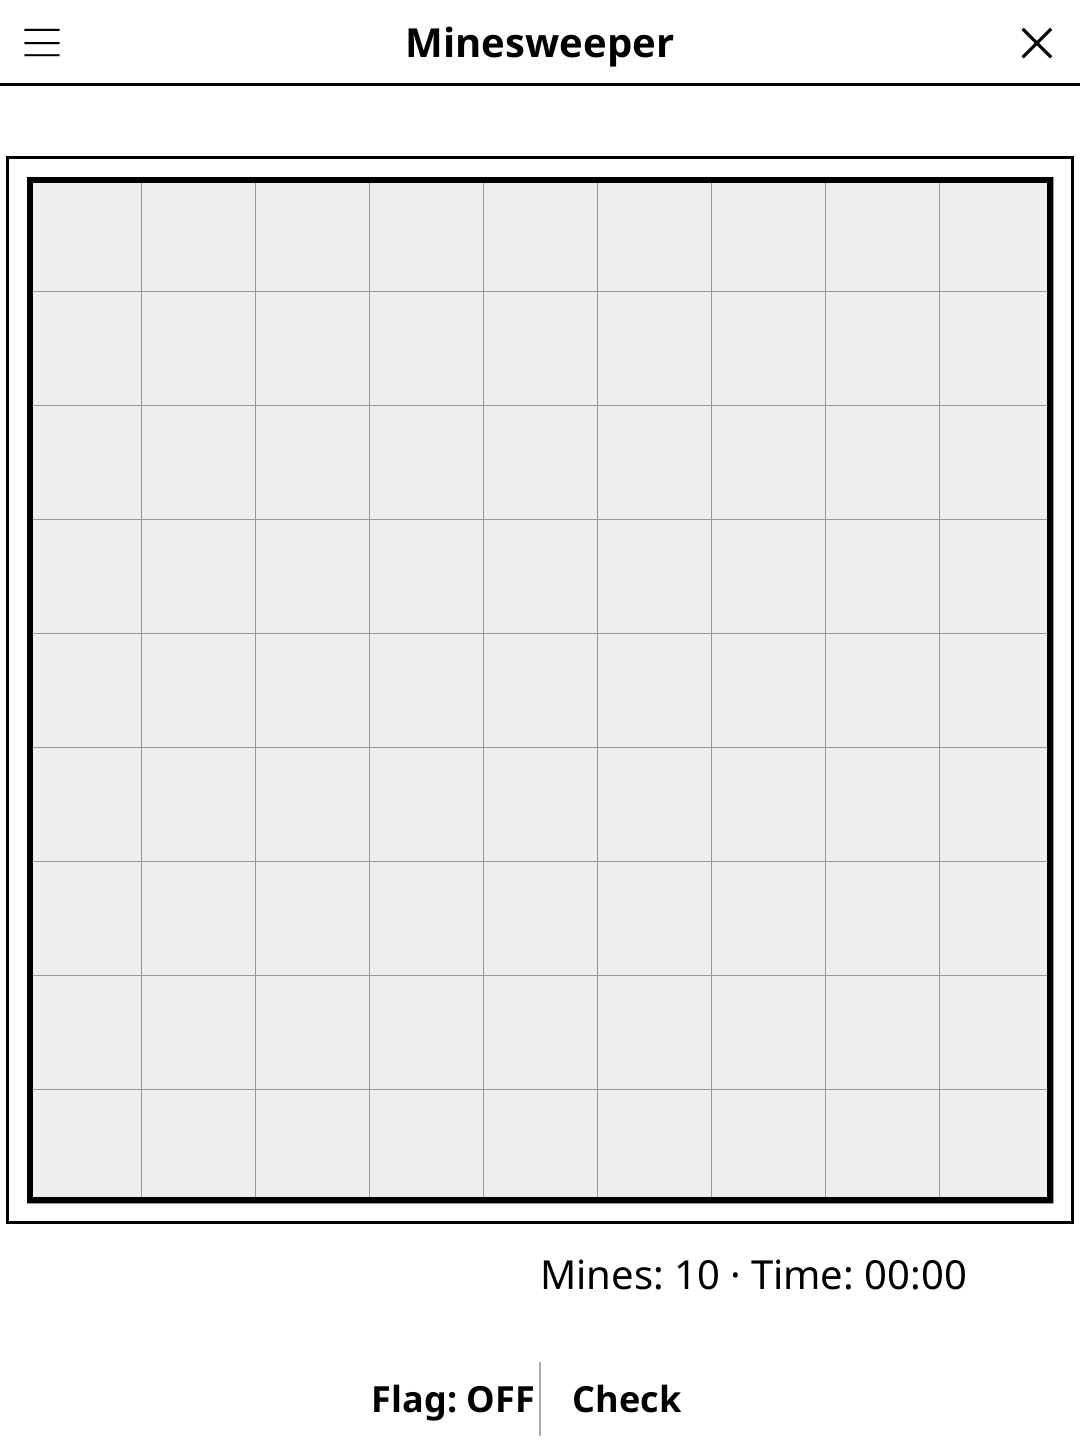
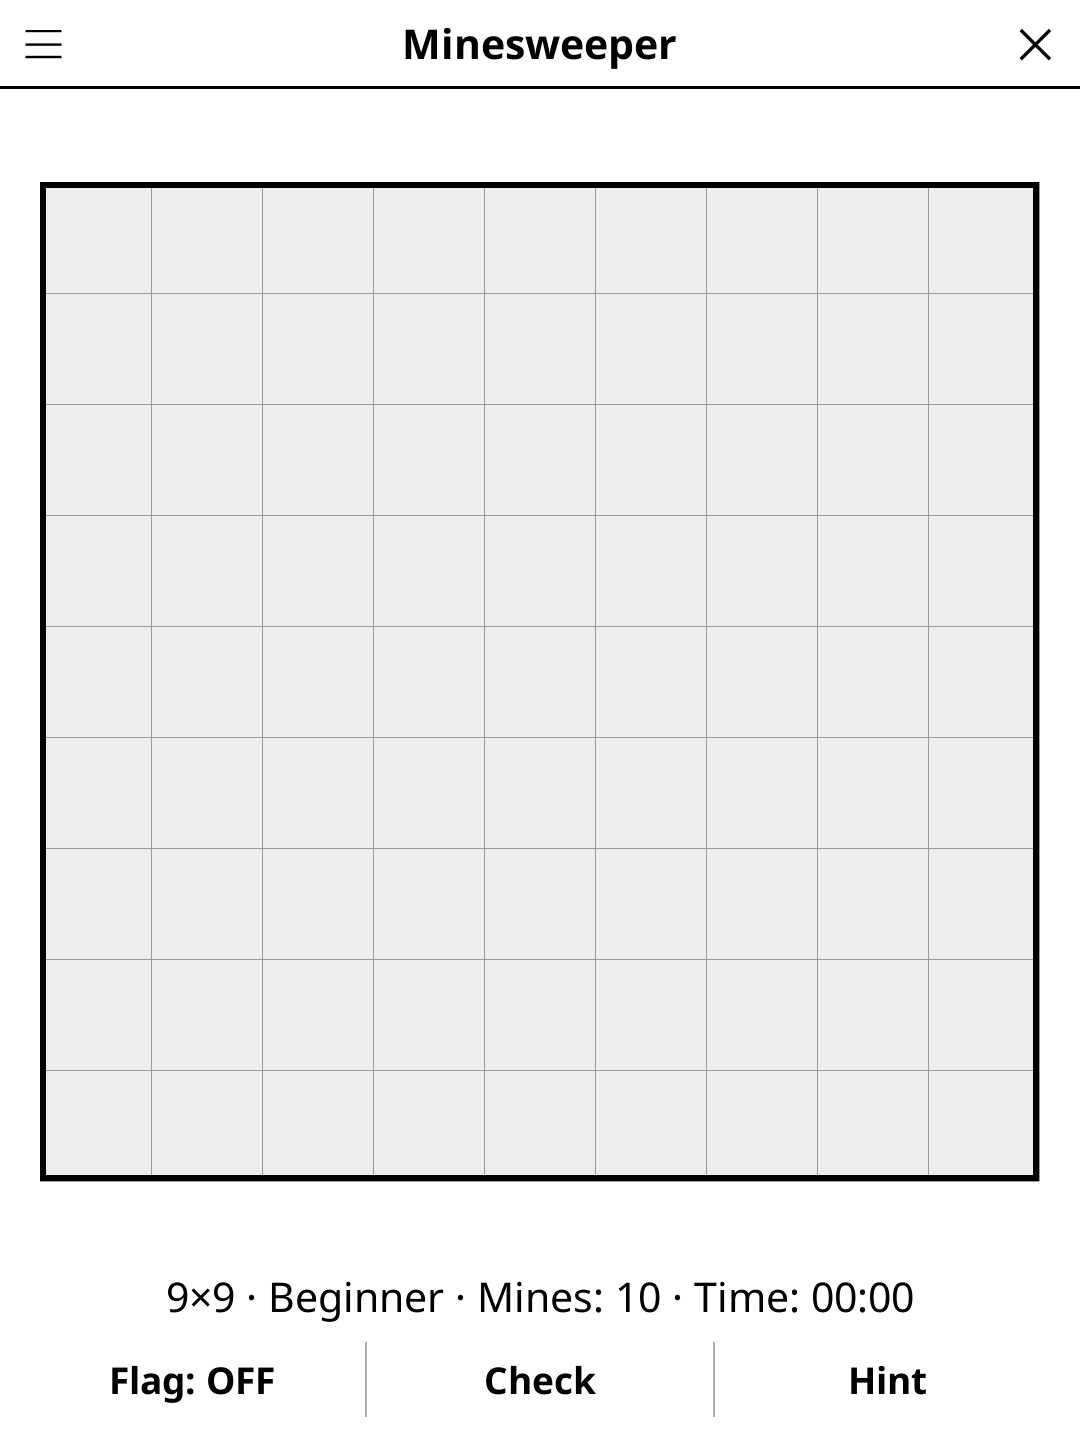
release: 1.3.0 -- redesigned screen, harmonised menu, New game at round end
Screen redesign (full-width action bar, unified pad, status line, larger
board), harmonised title-bar menu, and a "New game" button once the round
is over. See CHANGELOG.md.

diff --git a/CHANGELOG.md b/CHANGELOG.md
@@ -2,6 +2,34 @@
 
 All notable changes to this project will be documented in this file.
 
+## [1.3.0] - 2026-10-30
+
+### Added
+- "New game" once the game is won or lost: the action bar shows it in place
+  of Flag, Check and Hint, so the next game no longer needs the menu.
+- The rules now explain the gestures: tap to uncover, long-press (or Flag
+  mode) to flag, tap a satisfied number to uncover its other neighbours.
+
+### Changed
+- Redesigned play screen, in line with the other games: the standard title
+  bar and menu, a full-width action bar, a larger board that fills the
+  available room, and one frame around it. The status line reads "size ·
+  difficulty · Mines: n · Time: t" and wraps in landscape instead of being
+  cut off; flag mode is shown on its button only.
+- Title-bar menu in the same order as every other game: New game,
+  "Difficulty: Beginner" (was "Preset: Beginner" in a separate pop-up),
+  Rules.
+- New README screenshot.
+
+### Fixed
+- The difficulty names (Beginner, Intermediate, Expert) were never
+  translated.
+- A flagged cell was drawn like an uncovered blank; it now keeps the covered
+  shade under its flag.
+- Numbers and flags overflowed the small cells of the larger boards on
+  high-DPI screens. They are now fitted to the cell.
+- Using Hint wiped the saved game: the board was saved as nothing.
+
 ## [1.2.2] - 2026-10-07
 
 ### Fixed

diff --git a/README.md b/README.md
@@ -37,7 +37,7 @@ and clear the board.
 | Flag / unflag a mine | Tap it (in flag mode) or long-press |
 | Toggle reveal / flag mode | Tap the **Flag** button |
 | New game | Tap **New game** |
-| Change preset | Tap **Preset** |
+| Change difficulty | Tap **Difficulty** |
 | Show rules | Tap **Rules** |
 
 ## Why e-ink friendly?
